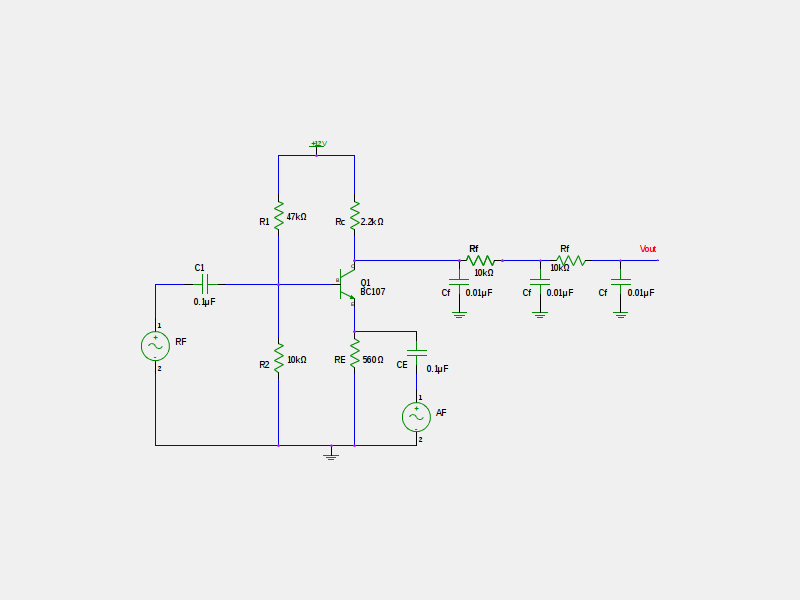
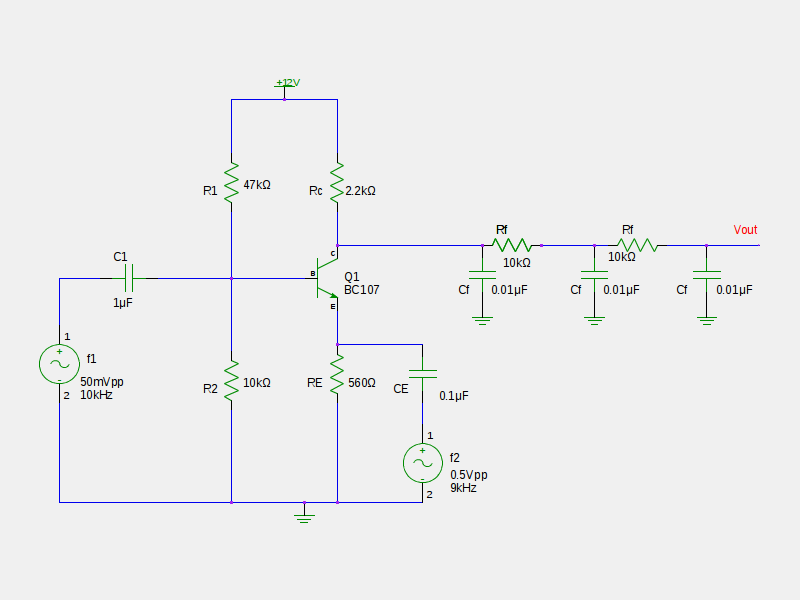
Content added to Mixer circuit
circuit diagram was modified, Procedure, Observation and results sections
were added.

diff --git a/analogcommunicationcircuits/analogcommunication.tex b/analogcommunicationcircuits/analogcommunication.tex
@@ -26,7 +26,7 @@
 \title{Analog Communication
 Laboratory Manual}
 \date{December 2013}
-\author {Authors: Contributor-1, Contributor-2...}
+\author {Authors: Kavya Manohar, Contributor-2...}
 \maketitle
 %----------------------------------------------------------
 %\thispagestyle{empty}
@@ -583,13 +583,29 @@ Function Generators(2), CRO(1), Connection wires, Breadboard, Probes.
 \section*{Circuit Diagram}
 See Figure \ref{mixer} for circuit diagram.
 \begin{figure}[h]
-\includegraphics[width=12cm, height=8cm, trim=4cm 3.5cm 3cm 3.5cm,clip=true]{mixer.png}
+\includegraphics[width=12cm, height=8cm, trim=1cm 1cm 1cm 2cm,clip=true]{mixer.png}
 \caption{Circuit Diagram for Mixer circuit using BJT}
 \label{mixer}
 \end{figure}
 \section*{Procedure}
+\begin{enumerate}
+\item
+Make connections as per the circuit diagram.
+\item
+Feed $f_1$ and $f_2$ with amplitudes as shown in the circuit diagram and frequencies 10 kHz and 9 kHz respectively.
+\item
+Observe the filtered output frequency on a CRO.
+\item
+Repeat with frequencies changed to 20 kHz and 19kHz  (50 kHz and 49 kHz)and observe it in CRO. Verify that the circuit gives the difference frequency of 1 kHz at the output.
+\item
+Plot the input and output signals on a graph sheet. 
+
+\end{enumerate}
 \section*{Observation}
+From the graph find the frequency of the output signal.\\
+\textcolor{red}{Model graph to be added}
 \section*{Result}
+The mixer circuit using BJT was set up and output was verified from signals observed on a CRO.
 
 
 \chapter[Balanced Modulator for DSB-SC]{Balanced Modulator for DSB-SC}
